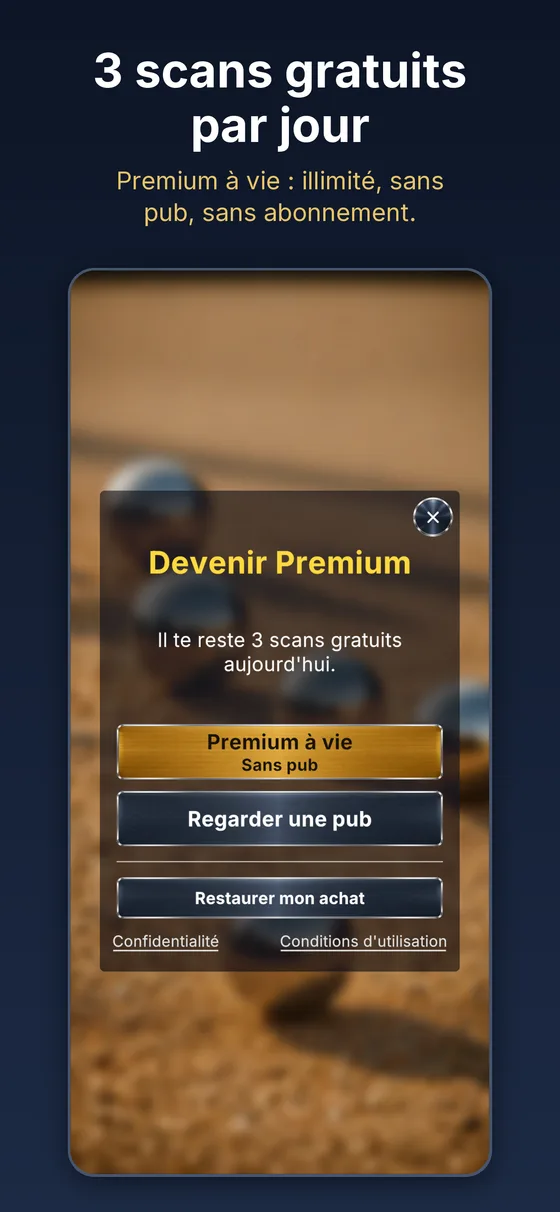
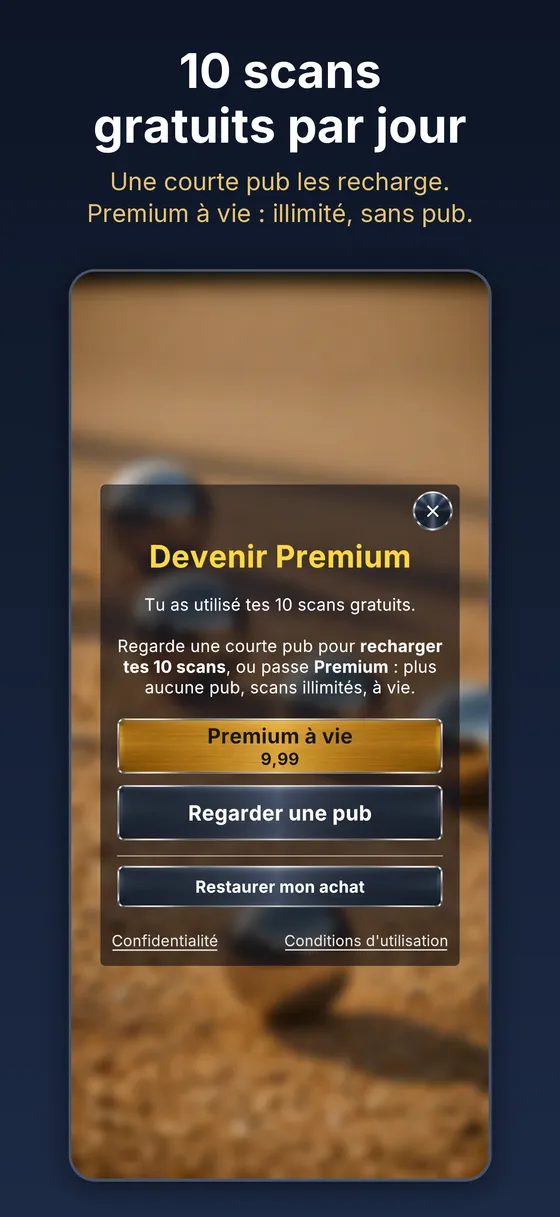
[FIXED] Pétanque Scan pages: visual 6 is now the stores' 1.2.15 slide « 10 scans gratuits par jour », with its captions, in all five languages

diff --git a/src/data/petanqueScanner.ts b/src/data/petanqueScanner.ts
@@ -44,10 +44,9 @@ export const APP_NAME = 'Pétanque Scan';
 export const OG_IMAGE = '/assets/work/og/petanque-scanner.jpg';
 export const HERO = '/assets/petanque-ar/hero-fr.avif?v=1213';
 
-/** The store visuals carry their caption and the app's own UI, so each language gets its set.
-    Visual 6 stays out: it still says 3 free scans a day, and the app gives 10 since 1.2.14. */
+/** The store visuals carry their caption and the app's own UI, so each language gets its set. */
 const screens = (suffix: string) =>
-	[1, 2, 3, 4, 5].map((n) => `/assets/petanque-ar/screen-0${n}${suffix}.webp`);
+	[1, 2, 3, 4, 5, 6].map((n) => `/assets/petanque-ar/screen-0${n}${suffix}.webp`);
 export const SCREENS: Record<LandingLang, string[]> = {
 	fr: screens('-fr'),
 	en: screens('-en'),
@@ -706,6 +705,7 @@ export const download: Record<LandingLang, DownloadCopy> = {
 			'Passe au-dessus. Chaque boule se verrouille toute seule.',
 			'Le verdict d’en haut. Boules classées, écarts affichés.',
 			'Pas d’AR ? Une photo suffit. Le mode photo marche sur tous les téléphones.',
+			'10 scans gratuits par jour. Une courte pub les recharge. Premium à vie : illimité, sans pub.',
 		],
 		pause: 'Mettre l’animation en pause',
 		videoTitle: 'En vidéo',
@@ -720,6 +720,7 @@ export const download: Record<LandingLang, DownloadCopy> = {
 			'Hold it above. Each boule locks by itself.',
 			'The verdict from above. Boules ranked, gaps shown.',
 			'No AR? One photo will do. Photo mode works on every phone.',
+			'10 free scans a day. A short ad refills them. Lifetime Premium: unlimited, no ads.',
 		],
 		pause: 'Pause the animation',
 		videoTitle: 'On video',
@@ -734,6 +735,7 @@ export const download: Record<LandingLang, DownloadCopy> = {
 			'Colócate encima. Cada bola se bloquea sola.',
 			'El veredicto desde arriba. Bolas clasificadas, distancias a la vista.',
 			'¿Sin AR? Basta una foto. El modo foto funciona en todos los móviles.',
+			'10 escaneos gratis al día. Un anuncio corto los recarga. Premium de por vida: ilimitado, sin anuncios.',
 		],
 		pause: 'Pausar la animación',
 		videoTitle: 'En vídeo',
@@ -748,6 +750,7 @@ export const download: Record<LandingLang, DownloadCopy> = {
 			'Halte es darüber. Jede Kugel rastet von selbst ein.',
 			'Das Urteil von oben. Kugeln gewertet, Abstände sichtbar.',
 			'Kein AR? Ein Foto reicht. Der Fotomodus läuft auf jedem Handy.',
+			'10 Gratis-Scans pro Tag. Kurze Werbung lädt sie auf. Premium auf Lebenszeit: unbegrenzt, ohne Werbung.',
 		],
 		pause: 'Animation anhalten',
 		videoTitle: 'Im Video',
@@ -762,6 +765,7 @@ export const download: Record<LandingLang, DownloadCopy> = {
 			'Tienilo sopra. Ogni boccia si blocca da sola.',
 			'Il verdetto dall’alto. Bocce in classifica, distanze in vista.',
 			'Niente AR? Basta una foto. La modalità foto funziona su ogni telefono.',
+			'10 scansioni gratis al giorno. Un breve annuncio le ricarica. Premium a vita: illimitato, senza pubblicità.',
 		],
 		pause: 'Metti in pausa l’animazione',
 		videoTitle: 'In video',
